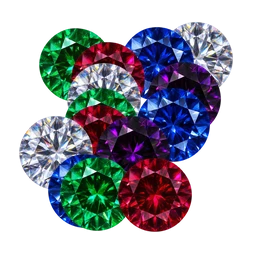
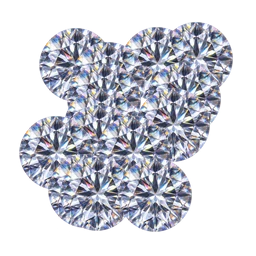
宝石クルーン：回る玉をダイヤだけに、2倍タイムの言葉を「玉」に
Claude-Session: https://claude.ai/code/session_01HLDAdxR8EuB7ryd8AUY3Hp

diff --git a/jewel/index.html b/jewel/index.html
@@ -165,7 +165,7 @@ canvas{touch-action:none;user-select:none;-webkit-user-select:none}
   </div>
   <div id="cfg" hidden>
     <div class="top"><div id="embedNote" hidden style="background:#5a1020;border:3px solid #ff6a80;border-radius:.6em;padding:.6em .8em;margin:.2em 0 .6em;font-weight:900;line-height:1.5">このページ（Claudeの共有ページ）では、スマホだけの配信（ギフトの受け取り）は動きません。<br>Safariでこちらを開いてください：<br><a href="https://sanpolab.github.io/jan/jewel/" target="_blank" rel="noopener" style="color:#ffe680;word-break:break-all">https://sanpolab.github.io/jan/jewel/</a></div>
-<h2>ギフト設定 <small id="verTag" style="font-size:.5em;font-weight:700;color:#9ab;margin-left:.6em">版 11/28 22:02</small></h2>
+<h2>ギフト設定 <small id="verTag" style="font-size:.5em;font-weight:700;color:#9ab;margin-left:.6em">版 11/28 22:04</small></h2>
     <div id="missBox" hidden><h3 style="color:#ff9aa8">届いたけど、どの効果か分からなかったギフト</h3>
     <p>スマホ用のつなぎ先は、ギフトの名前を英語で送ってくることがあります。下で「どの効果のギフトか」を1回えらぶと、次からは自動で反応します（コイン数が同じ効果だけを出しています）。</p>
     <div id="missList"></div></div>
@@ -218,7 +218,7 @@ canvas{touch-action:none;user-select:none;-webkit-user-select:none}
     <h3>とちゅうの段から入れる</h3>
     <button class="j" data-a="from3">3段目から</button><button class="j" data-a="from4">4段目から</button><button class="j" data-a="from5">FINALから</button>
     <h3>そのほか</h3>
-    <button class="j" data-a="dbl">確変モード<br>当たり穴が2つ</button><button class="j" data-a="x2">玉数2倍タイム<br>宝石が2倍</button><button class="j" data-a="shake">皿をゆらす</button><button class="h" data-a="cap">フタ<br>当たり穴をふさぐ</button><button class="h" data-a="wipe">全消し</button>
+    <button class="j" data-a="dbl">確変モード<br>当たり穴が2つ</button><button class="j" data-a="x2">玉数2倍タイム<br>玉が2倍</button><button class="j" data-a="shake">皿をゆらす</button><button class="h" data-a="cap">フタ<br>当たり穴をふさぐ</button><button class="h" data-a="wipe">全消し</button>
     <h3>無料（コメント・いいね・フォロー）</h3>
     <button class="j" data-a="comment">コメント<br>宝石1個</button><button class="j" data-a="like">いいね×1000<br>宝石3個</button><button class="j" data-a="follow">フォロー<br>宝石5個</button>
     <h3>大当たりの時</h3>
@@ -235,7 +235,7 @@ canvas{touch-action:none;user-select:none;-webkit-user-select:none}
 try{ if(localStorage.getItem('jewel_gv')!=='2'){ localStorage.removeItem('jewel_gifts'); localStorage.setItem('jewel_gv','2'); } }catch(e){}
 'use strict';
 const cv=document.getElementById('cv'), g=cv.getContext('2d'), stage=document.getElementById('stage');
-const VER='1128-220222';
+const VER='1128-220457';
 let TITLE=true, PAUSE=false; const PENDQ=[];   /* TITLE＝タイトル画面を出しているか、PAUSE＝一時停止中か、PENDQ＝一時停止の間に届いたギフト（再開したら順番に出す） */
 /* ===== 宝石クルーン：黒い大理石の皿が5段。宝石は皿の上をぐるぐる回って、3つの穴のどれかに落ちる。
    ルビーの穴＝当たり（つぎの段へ）、金の穴＝はずれ。5段ぜんぶ当たりの穴に入ると「大当たり」。視聴者のギフトで宝石が増える ===== */
@@ -365,7 +365,8 @@ function txt(s,x,y,size,color,align,stroke,font){ g.font='900 '+size+'px '+(font
 function gold(s,x,y,size,align){ g.font='900 '+size+'px '+FONTD; g.textAlign=align||'center'; g.textBaseline='middle'; g.lineJoin='round'; g.lineWidth=Math.max(5,size*.16); g.strokeStyle='#120b02'; g.strokeText(s,x,y); const gr=g.createLinearGradient(0,y-size*.55,0,y+size*.55); gr.addColorStop(0,'#fff3c4'); gr.addColorStop(.45,'#e9c46a'); gr.addColorStop(.55,'#b98a2e'); gr.addColorStop(1,'#f3d98b'); g.fillStyle=gr; g.fillText(s,x,y); }
 function rr(x,y,w,h,r){ g.beginPath(); g.moveTo(x+r,y); g.arcTo(x+w,y,x+w,y+h,r); g.arcTo(x+w,y+h,x,y+h,r); g.arcTo(x,y+h,x,y,r); g.arcTo(x,y,x+w,y,r); g.closePath(); }
 function panel(x,y,w,h){ g.fillStyle='rgba(8,5,6,.72)'; rr(x,y,w,h,14); g.fill(); g.strokeStyle=GOLDD; g.lineWidth=2.5; g.stroke(); g.strokeStyle='rgba(233,196,106,.35)'; g.lineWidth=1; rr(x+7,y+7,w-14,h-14,9); g.stroke(); }
-function gem(type,x,y,r,rot,a){ g.save(); g.translate(x,y); if(a!=null) g.globalAlpha=a; g.fillStyle='rgba(0,0,0,.5)'; g.beginPath(); g.ellipse(r*.1,r*.62,r*.9,r*.42,0,0,TAU); g.fill(); g.rotate(rot||0); const k='gem'+type, z=r*1.18; if(ok(k)) g.drawImage(IMG[k],-z,-z,z*2,z*2); else { g.fillStyle='#4aa3ff'; g.beginPath(); g.arc(0,0,r,0,TAU); g.fill(); } g.restore(); }
+function gem(type,x,y,r,rot,a){ type=3;   /* 皿を回る玉は、ぜんぶダイヤ */
+  g.save(); g.translate(x,y); if(a!=null) g.globalAlpha=a; g.fillStyle='rgba(0,0,0,.5)'; g.beginPath(); g.ellipse(r*.1,r*.62,r*.9,r*.42,0,0,TAU); g.fill(); g.rotate(rot||0); const k='gem'+type, z=r*1.18; if(ok(k)) g.drawImage(IMG[k],-z,-z,z*2,z*2); else { g.fillStyle='#4aa3ff'; g.beginPath(); g.arc(0,0,r,0,TAU); g.fill(); } g.restore(); }
 function drawDish(d){ const a=ang(d.i), th=d.R*.085;
   g.save(); g.translate(d.x,d.y);
   /* 下に落ちる影と、皿の厚み（金のふちの横がわ） */
@@ -412,7 +413,7 @@ function drawKx(){ const k=S.kx, X2=k.kind==='x2', t=k.t, out=clamp((t-2.45)/.45
     g.save(); g.translate(cx+ox,cy); const z=250*Math.min(1,u/.2)*(1+.04*Math.sin(T*7)); { const hg=g.createRadialGradient(0,0,0,0,0,z*1.9); hg.addColorStop(0,X2?'rgba(70,160,255,.6)':'rgba(255,60,100,.6)'); hg.addColorStop(1,X2?'rgba(70,160,255,0)':'rgba(255,60,100,0)'); g.fillStyle=hg; g.beginPath(); g.arc(0,0,z*1.9,0,TAU); g.fill(); }
     { const hk=X2?'kx_x2':'kx_ruby'; if(ok(hk)) g.drawImage(IMG[hk],-z*1.5,-z*1.5,z*3,z*3); else if(X2){ for(const sgn of [-1,1]){ g.save(); g.translate(sgn*z*.62,0); g.rotate(T*.6*sgn); if(ok('gem0')) g.drawImage(IMG.gem0,-z*.8,-z*.8,z*1.6,z*1.6); g.restore(); } } else { g.rotate(T*.6); if(ok('gem2')) g.drawImage(IMG.gem2,-z,-z,z*2,z*2); } } g.restore();
     g.save(); g.translate(cx+jx+ox,cy-18); g.scale(sc,sc); gold(X2?'玉数2倍':'確変',0,0,X2?210:250); g.restore();
-    if(u>.38){ const v=clamp((u-.38)/.15,0,1); g.globalAlpha=a*v; txt(X2?'宝石が ぜんぶ 2倍 出る':'当たりの穴  2倍タイム',cx+ox+(1-v)*80,cy+150,62,'#fff','center',X2?'#04163d':'#3d0412',FONTD); g.globalAlpha=a; }
+    if(u>.38){ const v=clamp((u-.38)/.15,0,1); g.globalAlpha=a*v; txt(X2?'玉が ぜんぶ 2倍 出る':'当たりの穴  2倍タイム',cx+ox+(1-v)*80,cy+150,62,'#fff','center',X2?'#04163d':'#3d0412',FONTD); g.globalAlpha=a; }
     if(u>.6 && k.by){ const v=clamp((u-.6)/.15,0,1); g.globalAlpha=a*v; txt(k.by+' さん',cx+ox,cy+236,44,GOLD,'center','#000',FONTD); g.globalAlpha=a; }
     if(u>.5){ const v=clamp((u-.5)/.15,0,1); g.globalAlpha=a*v; txt((X2?CFG.x2Sec:CFG.dblSec)+'秒間',cx+ox-(1-v)*80,cy-178,54,X2?'#d6ebff':'#ffd9df','center',X2?'#04163d':'#3d0412',FONTD); g.globalAlpha=a; } }
   g.restore(); }
@@ -446,14 +447,14 @@ function draw(){ const sx=S.shake>0?rand(-1,1)*S.shake*16:0, sy=S.shake>0?rand(-
   /* 確変の間は、画面のふちが赤く脈うつ（残り5秒は速く点めつ） */
   if(S.dblT>0){ const pu=S.dblT<5?(.5+.5*Math.sin(T*16)):(.6+.4*Math.sin(T*5)); for(const [x0,y0,x1,y1] of [[0,0,0,150],[0,H,0,H-150],[0,0,150,0],[W,0,W-150,0]]){ const gr=g.createLinearGradient(x0,y0,x1,y1); gr.addColorStop(0,'rgba(255,20,60,'+(.5*pu).toFixed(2)+')'); gr.addColorStop(1,'rgba(255,20,60,0)'); g.fillStyle=gr; g.fillRect(0,0,W,H); }
     modeBox(64,654,'確変モード','当たり 2倍',S.dblT,CFG.dblSec,RUBY); }
-  if(S.x2T>0){ const pu=S.x2T<5?(.5+.5*Math.sin(T*16)):(.6+.4*Math.sin(T*5+1)); for(const [x0,y0,x1,y1] of [[0,0,0,110],[0,H,0,H-110]]){ const gr=g.createLinearGradient(x0,y0,x1,y1); gr.addColorStop(0,'rgba(60,150,255,'+(.45*pu).toFixed(2)+')'); gr.addColorStop(1,'rgba(60,150,255,0)'); g.fillStyle=gr; g.fillRect(0,0,W,H); } modeBox(1294,712,'玉数2倍タイム','宝石が 2倍',S.x2T,CFG.x2Sec,'#4aa3ff'); }
+  if(S.x2T>0){ const pu=S.x2T<5?(.5+.5*Math.sin(T*16)):(.6+.4*Math.sin(T*5+1)); for(const [x0,y0,x1,y1] of [[0,0,0,110],[0,H,0,H-110]]){ const gr=g.createLinearGradient(x0,y0,x1,y1); gr.addColorStop(0,'rgba(60,150,255,'+(.45*pu).toFixed(2)+')'); gr.addColorStop(1,'rgba(60,150,255,0)'); g.fillStyle=gr; g.fillRect(0,0,W,H); } modeBox(1294,712,'玉数2倍タイム','玉が 2倍',S.x2T,CFG.x2Sec,'#4aa3ff'); }
   if(S.kx) drawKx();
   if(S.flash>0){ g.fillStyle='rgba(255,240,200,'+Math.min(.8,S.flash*1.3).toFixed(2)+')'; g.fillRect(0,0,W,H); }
   /* 大当たり */
   if(S.jp){ const t=6-S.jp.t, k=clamp(Math.min(t*3,S.jp.t*2),0,1); g.globalAlpha=k; g.fillStyle='rgba(4,2,3,.72)'; g.fillRect(0,0,W,H);
     g.save(); g.translate(W/2,H/2-40); for(let i=0;i<16;i++){ g.rotate(TAU/16); g.fillStyle='rgba(233,196,106,'+(.07+.05*Math.sin(T*3+i)).toFixed(3)+')'; g.beginPath(); g.moveTo(0,0); g.lineTo(-70,-1200); g.lineTo(70,-1200); g.closePath(); g.fill(); } g.restore();
     const sc=1+.25*Math.max(0,1-t*2.2), nm=S.jp.by; if(nm){ g.font='900 110px '+FONTD; const fs=Math.min(110,Math.floor(110*1500/Math.max(1,g.measureText(nm+' さん').width))); txt(nm+' さん',W/2,H/2-190,fs,'#fff','center','#120b02',FONTD); } g.save(); g.translate(W/2,H/2+(nm?20:-70)); g.scale(sc,sc); gold('大当たり',0,0,nm?250:230); g.restore();
-    for(let i=0;i<5;i++) gem(S.jp.type!=null?(S.jp.type+i)%6:i,W/2-360+i*180,H/2-(nm?360:290)+Math.sin(T*3+i)*10,44,T*.8+i);
+    for(let i=0;i<5;i++) gem(3,W/2-360+i*180,H/2-(nm?360:290)+Math.sin(T*3+i)*10,44,T*.8+i);
     const y0=H/2+(nm?200:120); if(JP.text) txt(JP.text,W/2,y0,74,'#fff','center','#000',FONTD);
     if(JP.win) txt('Win '+(JP.win>0?'＋':'−')+fmt(Math.abs(JP.win)),W/2,y0+(JP.text?90:0),50,JP.win>0?'#9fe7ff':RUBY,'center','#000',FONTD);
     g.globalAlpha=1; }
@@ -494,7 +495,7 @@ const FX_LIST=[
  ['from4','jam','4段目から','宝石1個を、4段目から始める',n=>Game.from4(n)],
  ['from5','jam','FINALから','宝石1個を、最後の段から始める',n=>Game.from5(n)],
  ['dbl','jam','確変モード','30秒のあいだ、当たりの穴が2つになる',n=>Game.dbl(n)],
- ['x2','jam','玉数2倍タイム','60秒のあいだ、入る宝石がぜんぶ2倍になる',n=>Game.x2(n)],
+ ['x2','jam','玉数2倍タイム','60秒のあいだ、入る玉がぜんぶ2倍になる',n=>Game.x2(n)],
  ['shake','jam','皿をゆらす','皿の上の宝石をぜんぶはじく',n=>Game.shake(n)],
  ['cap','help','フタ','20秒のあいだ、当たりの穴をふさぐ',n=>Game.cap(n)],
  ['wipe','help','全消し','皿の上と待ちの宝石をぜんぶ消す',n=>Game.wipe(n)]];
